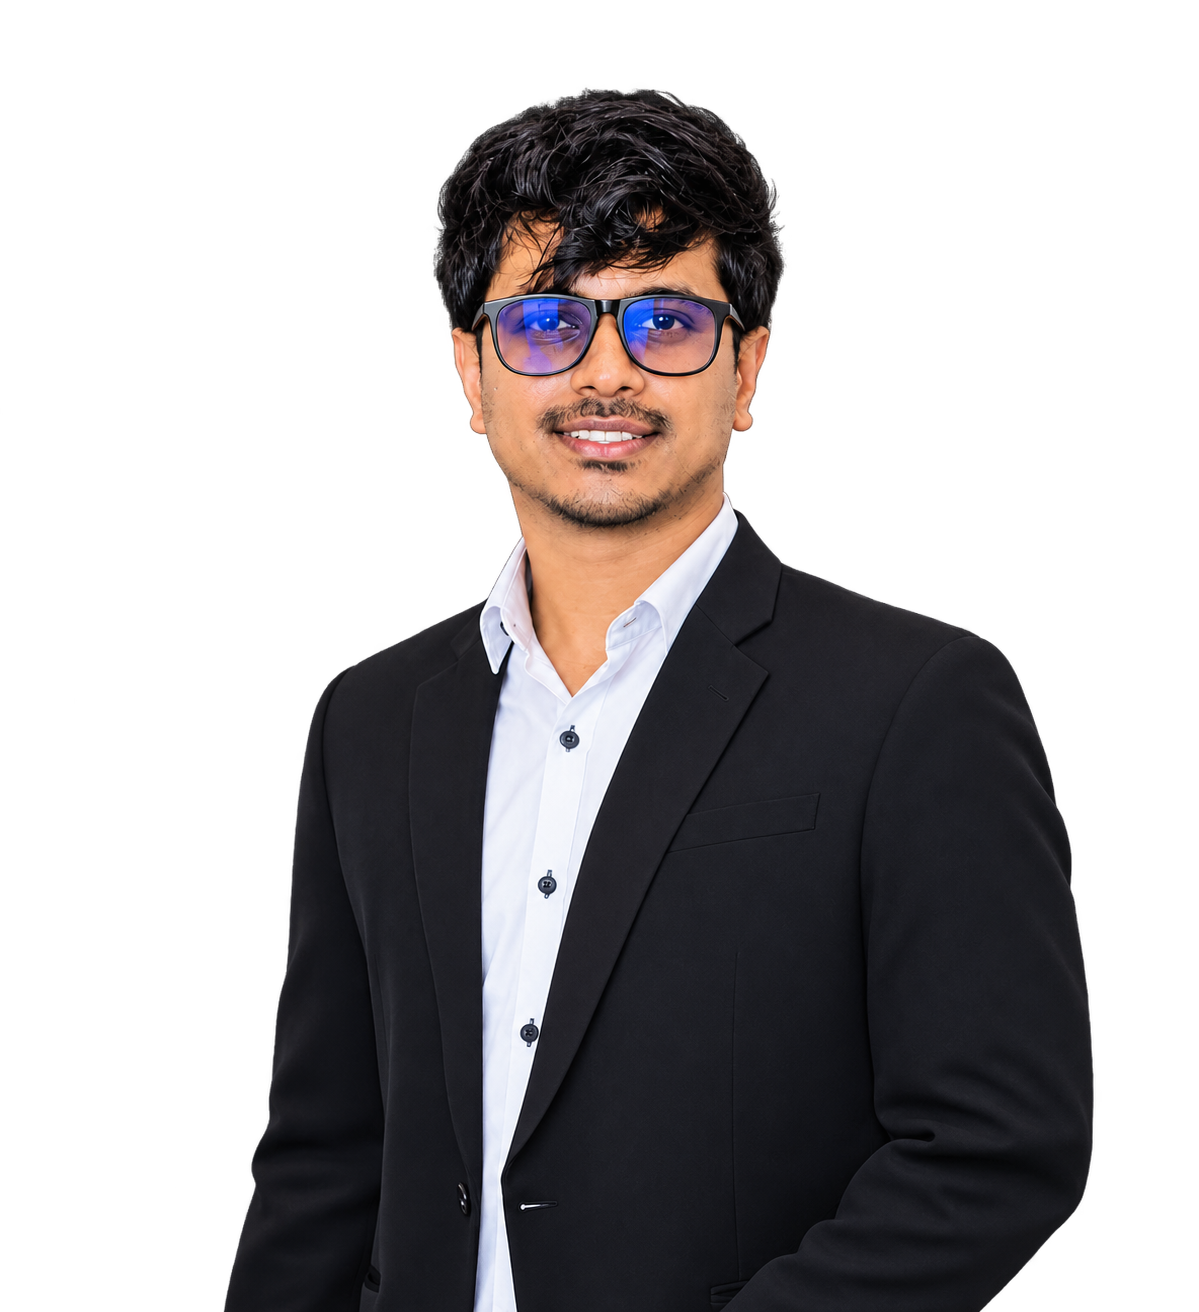
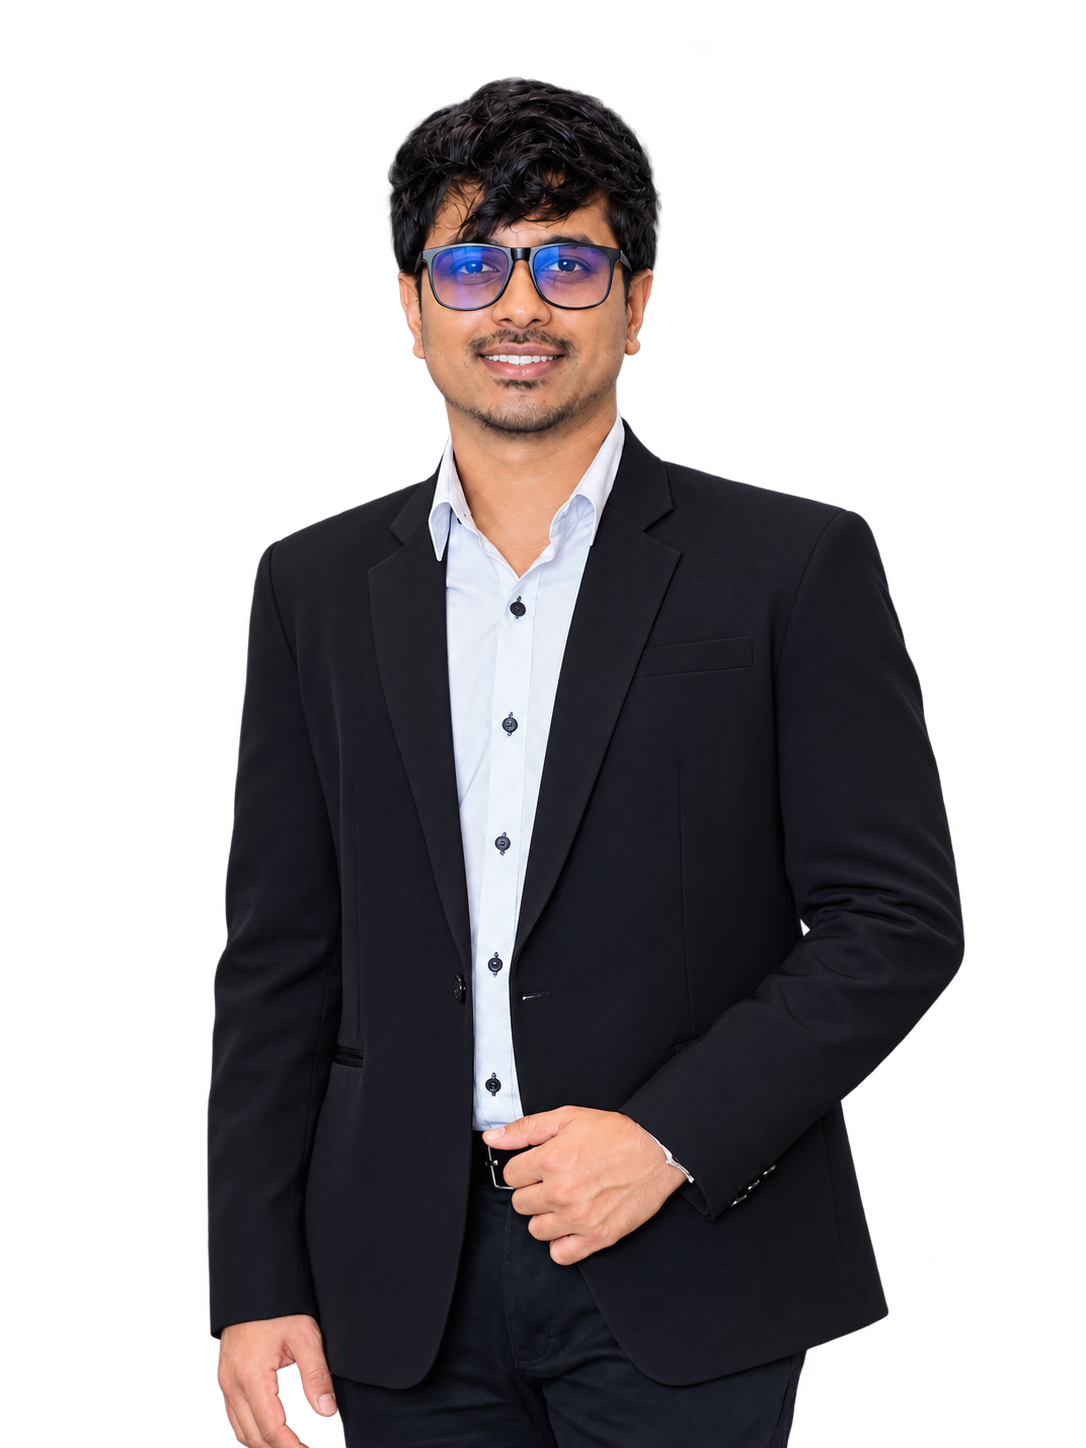
fix: update image source in index.html for correct display

diff --git a/index.html b/index.html
@@ -54,7 +54,7 @@
     <div class="hero-photo-desktop">
       <picture>
         <source srcset="img/nadun-kaushalya.webp" type="image/webp" />
-        <img src="IMG_2559.png" alt="Nadun Kaushalya" width="1199" height="1312" fetchpriority="high" decoding="async" />
+        <img src="IMG_2559-4.png" alt="Nadun Kaushalya" width="1199" height="1312" fetchpriority="high" decoding="async" />
       </picture>
 
     </div>
